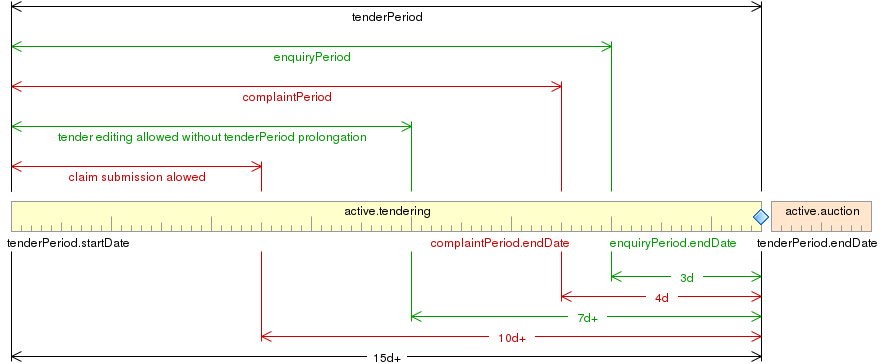
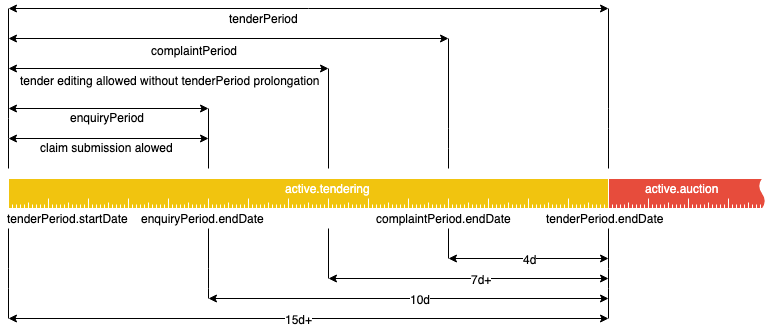
Update active-tendering diagrams and constraints

Changed region(s): [[0.0, 0.5183, 0.991, 1.0], [0.0, 0.0, 0.8671, 0.5183]]

diff --git a/docs/source/defense/tendering.rst b/docs/source/defense/tendering.rst
@@ -4,31 +4,24 @@
 Tendering
 =========
 
-.. The Defense open tender procedure has `active.tendering` status and can be represented with
-.. the following diagram:
-.. 
-.. .. image:: _static/active-tendering.png
+The Defense open tender procedure has `active.tendering` status and can be represented with
+the following diagram:
+
+.. image:: _static/active-tendering-defense.png
 
 
 Constraints
 -----------
 
- - `tenderPeriod` cannot be shorter than 5 working days.
+ - `tenderPeriod` cannot be shorter than 6 working days.
 
- - `enquiryPeriod` always ends 2 working days before tenderPeriod ends.
+ - `enquiryPeriod` always ends 3 working days before tenderPeriod ends.
  
  - If question is not answered `tenderPeriod` is extended for 2 working days.
- 
-..  - If tender conditions are modified with less than 7 days left to
-..    `tenderPeriod.endDate`, it has to be extended to meet the constraint.
+
 
 Claims and Complaits
 ~~~~~~~~~~~~~~~~~~~~
 
   - Award complaint period is 2 working days.
-  
-..   - Claims can be submitted only if there are more than 10 days left
-..    in tenderPeriod.
-.. 
-..  - Complaints can be submitted only if there are 4 or more days left in
-..    tenderPeriod.
+

diff --git a/docs/source/openua/tendering.rst b/docs/source/openua/tendering.rst
@@ -15,7 +15,7 @@ Constraints
 
  - `tenderPeriod` cannot be shorter than 15 days.
 
- - `enquiryPeriod` always ends 3 days before tenderPeriod ends.
+ - `enquiryPeriod` always ends 10 days before tenderPeriod ends.
 
  - If tender conditions are modified with less than 7 days left to
    `tenderPeriod.endDate`, it has to be extended to meet the constraint.
